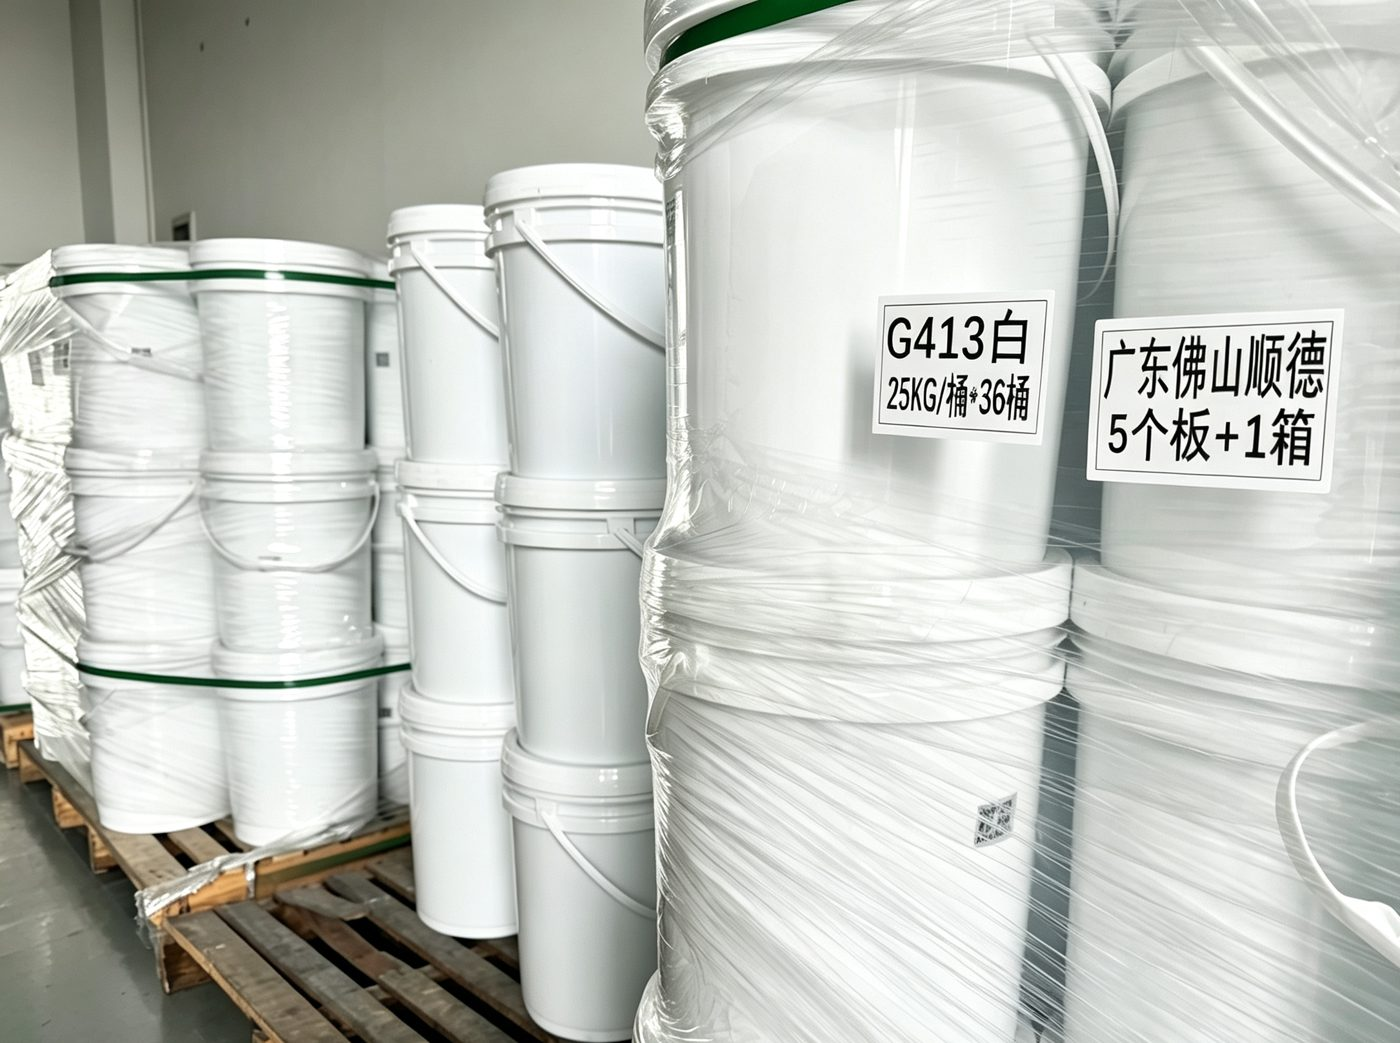
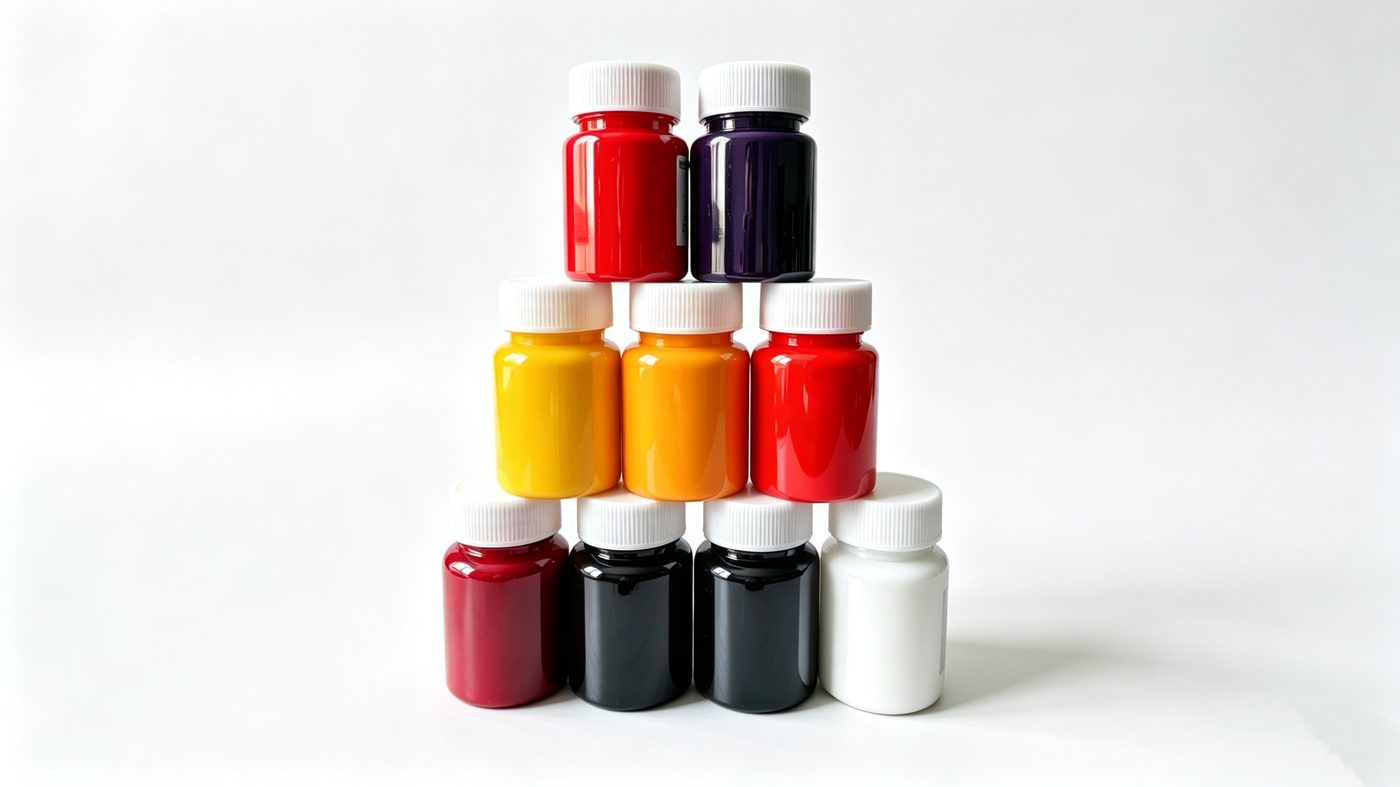
色浆主图改用宽幅实拍图，撤掉画廊
- 色浆1 换成宽幅（2848x1600）后做主图，压缩 1400x787
- 色浆2 不美观，撤掉；画廊随之移除，恢复单主图结构
- 删除不再使用的 color-paste-1.jpg

diff --git a/products.html b/products.html
@@ -465,24 +465,6 @@
       </div>
     </div>
 
-    <!-- ===== 色浆画廊 ===== -->
-    <div class="swatch-block">
-      <div class="swatch-block-header">
-        <h3>Color Paste Gallery</h3>
-        <p>High-concentration color pastes, custom-matched to your sample. Click to enlarge.</p>
-      </div>
-      <div class="swatch-grid">
-        <div class="swatch-item" data-full="images/products/color-paste.jpg" data-caption="Color paste — sample 1">
-          <img src="images/products/color-paste.jpg" alt="Flocking Color Paste" loading="lazy">
-          <div class="swatch-label">Color Paste</div>
-        </div>
-        <div class="swatch-item" data-full="images/products/color-paste-1.jpg" data-caption="Color paste — sample 2">
-          <img src="images/products/color-paste-1.jpg" alt="Flocking Color Paste" loading="lazy">
-          <div class="swatch-label">Color Paste</div>
-        </div>
-      </div>
-    </div>
-
   </div>
 </section>
 
